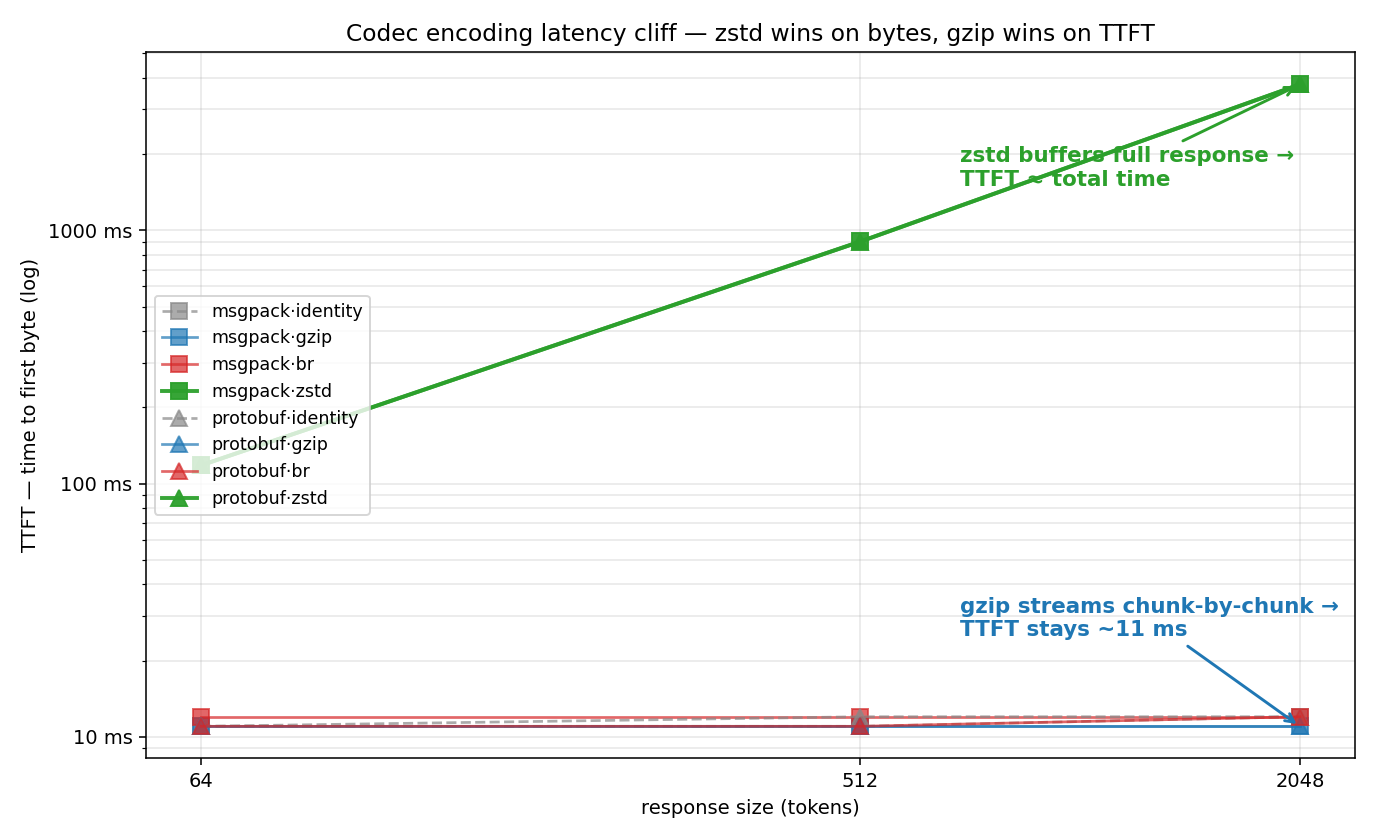
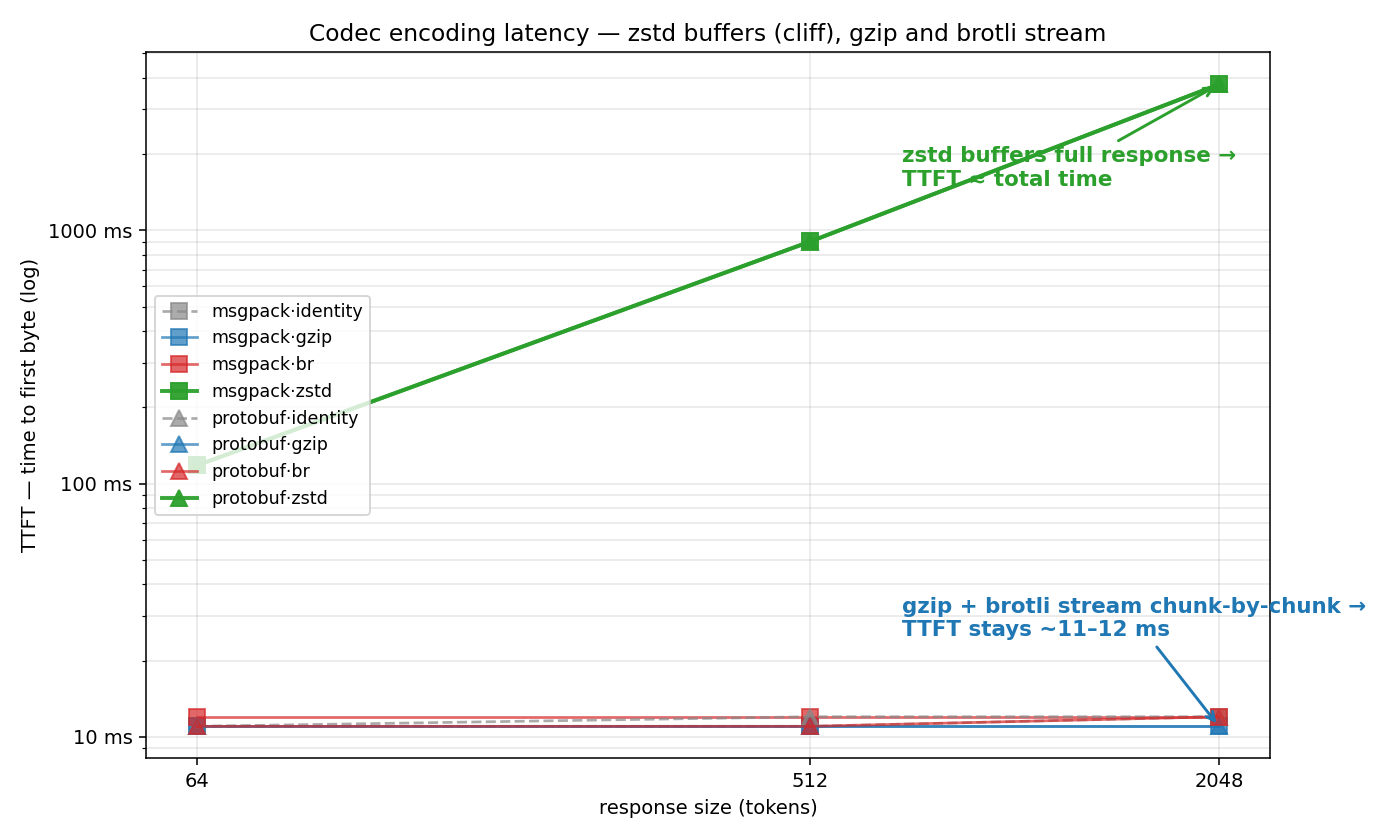
docs: add brotli to TTFT analysis (br streams, only zstd buffers)
Earlier TTFT analysis only showed gzip and zstd. Brotli was excluded
which made it look like the cliff was 'gzip vs everything else' --
that's wrong. The measured data has brotli at 11-12 ms TTFT across
all sizes, identical to gzip. The cliff is zstd-vs-everything-else.

Fixes:
- RESULTS.md sec 1d table now has 4 br rows (msgpack/protobuf/json-sse)
  with explicit 'streams? Y/N' column. Surrounding prose softened to
  acknowledge br as a viable streaming choice (just not as good as
  gzip on bytes for Codec frames).
- New trade-off table: gzip 222x/11ms, br ~17x/12ms, zstd 228x/3768ms
- TTFT chart caption updated: 'zstd buffers (cliff), gzip and brotli
  stream' -- tells the right story
- README transport-compression section gets the same trade-off table
- wire-compress README updated: interactive mode picks streaming
  encodings (gzip > br > zstd-only-if-alone), not just gzip
- Same patch applied to PR bodies for sglang #24483 + #24557, vLLM
  #41765, llama.cpp #22757, Codec #13.

diff --git a/packages/bench/scripts/plot_ttft.py b/packages/bench/scripts/plot_ttft.py
@@ -81,7 +81,7 @@ def plot_ttft(out_dir: Path) -> None:
         arrowprops=dict(arrowstyle="->", color="#2ca02c", lw=1.5),
     )
     ax.annotate(
-        "gzip streams chunk-by-chunk →\nTTFT stays ~11 ms",
+        "gzip + brotli stream chunk-by-chunk →\nTTFT stays ~11–12 ms",
         xy=(2048, 11), xytext=(700, 25),
         fontsize=11, fontweight="bold", color="#1f77b4",
         arrowprops=dict(arrowstyle="->", color="#1f77b4", lw=1.5),
@@ -94,7 +94,7 @@ def plot_ttft(out_dir: Path) -> None:
     ax.set_xlabel("response size (tokens)")
     ax.set_ylabel("TTFT — time to first byte (log)")
     ax.set_title(
-        "Codec encoding latency cliff — zstd wins on bytes, gzip wins on TTFT"
+        "Codec encoding latency — zstd buffers (cliff), gzip and brotli stream"
     )
     ax.grid(True, which="both", alpha=0.3)
     ax.legend(loc="center left", fontsize=9, ncol=1)

diff --git a/packages/bench/RESULTS.md b/packages/bench/RESULTS.md
@@ -255,39 +255,60 @@ token (TTFT, what humans feel), total wall-clock time, and CPU time
 spent in serialization on both endpoints. Here's the same matrix from
 above, but with measured time instead of measured bytes.
 
-### The TTFT cliff — zstd buffers, gzip streams
+### The TTFT cliff — zstd buffers, gzip and brotli stream
 
 The single most important time finding: **zstd as currently shipped by
 sglang's `codec_compression.py` buffers the entire response before
-sending the first byte.** Same lab box, same prompt, same model —
-TTFT measured as time from request POST to first received byte:
+sending the first byte.** gzip and brotli, by contrast, both flush
+chunk-by-chunk and preserve TTFT regardless of size. Same lab box,
+same prompt, same model — TTFT measured as time from request POST to
+first received byte:
 
 ![TTFT vs response size](docs/ttft-vs-size.png)
 
-| path · encoding | TTFT @ 64 tok | TTFT @ 512 tok | TTFT @ 2048 tok |
-|---|---:|---:|---:|
-| json-sse · identity | 46 ms | 15 ms | 15 ms |
-| msgpack · identity | 11 ms | 11 ms | 12 ms |
-| msgpack · gzip | `11 ms` | `11 ms` | `11 ms` |
-| msgpack · br | 12 ms | 12 ms | 12 ms |
-| **msgpack · zstd** | **118 ms** | **903 ms** | **3,764 ms** |
-| protobuf · identity | 11 ms | 12 ms | 12 ms |
-| protobuf · gzip | `11 ms` | `11 ms` | `11 ms` |
-| protobuf · br | 11 ms | 11 ms | 12 ms |
-| **protobuf · zstd** | **118 ms** | **902 ms** | **3,768 ms** |
+| path · encoding | TTFT @ 64 tok | TTFT @ 512 tok | TTFT @ 2048 tok | streams? |
+|---|---:|---:|---:|:---:|
+| json-sse · identity | 46 ms | 15 ms | 15 ms | ✓ |
+| json-sse · br | 12 ms | 13 ms | 12 ms | ✓ |
+| msgpack · identity | 11 ms | 11 ms | 12 ms | ✓ |
+| msgpack · gzip | `11 ms` | `11 ms` | `11 ms` | ✓ |
+| msgpack · br | `12 ms` | `12 ms` | `12 ms` | ✓ |
+| **msgpack · zstd** | **118 ms** | **903 ms** | **3,764 ms** | ✗ |
+| protobuf · identity | 11 ms | 12 ms | 12 ms | ✓ |
+| protobuf · gzip | `11 ms` | `11 ms` | `11 ms` | ✓ |
+| protobuf · br | `11 ms` | `11 ms` | `12 ms` | ✓ |
+| **protobuf · zstd** | **118 ms** | **902 ms** | **3,768 ms** | ✗ |
 
 **zstd's TTFT regresses 313× at 2K tokens** (11 ms → 3,768 ms) — first
-byte arrives only when the model finishes generating. gzip preserves
-TTFT at ~11 ms regardless of size.
+byte arrives only when the model finishes generating. **gzip and
+brotli both preserve TTFT** at ~11 ms regardless of size; only zstd
+buffers.
+
+That changes the encoding story: the streaming-vs-buffering split
+isn't gzip-versus-everything-else, it's zstd-versus-everything-else.
+Brotli is a perfectly viable streaming choice — it just doesn't
+compress Codec frames as well as gzip at small sizes (see §1c). At
+the same time it preserves TTFT exactly like gzip, which makes it the
+right pick for clients that have br support but not gzip (or where br
+is the negotiated default for some other reason).
 
 The wire savings are still real (zstd: 228× vs JSON-SSE; gzip: 222×
-vs JSON-SSE at 2K tokens). But for human-facing streams, the TTFT
-cliff makes zstd a non-starter as currently configured. **Use gzip for
-interactive responses**, even when zstd is supported.
+vs JSON-SSE; br: ~17× vs JSON-SSE — at 2K tokens). The trade-offs:
+
+| encoding | wire reduction at 2K | TTFT @ 2K | use when |
+|---|---:|---:|---|
+| gzip | 222× | 11 ms | universal default for streaming |
+| br | ~17× | 12 ms | gzip unavailable client-side (Safari/iOS edge cases) |
+| zstd | 228× | 3,768 ms | non-interactive workloads (agent-to-agent, batch) |
+
+For human-facing streams, the TTFT cliff makes zstd a non-starter as
+currently configured. **Use gzip for interactive responses**, fall
+back to br when gzip isn't supported, and only unlock zstd when the
+consumer is reading the whole response at once.
 
 The `wire-compress` picker enforces this. Its default `interactive: true`
-mode never picks zstd, even when both client and server support it,
-unless gzip is unavailable.
+mode never picks zstd; in that mode the order is gzip > br > zstd
+(zstd only chosen when it's the lone supported encoding).
 
 ### Total wall-clock — Codec adds <1% overhead
 

diff --git a/README.md b/README.md
@@ -250,9 +250,17 @@ A fine-grained sweep at 8 sizes (16 → 2,048 tokens, see `RESULTS.md` §1c) giv
 | **128 – 256**     | zstd if available, else gzip | within 10% of each other, both within reach of optimal                |
 | **≥ 256 tokens**  | **zstd**      | Huffman + dictionary keep amortising as the stream grows (562× vs JSON-SSE at 2K) |
 
-**Important caveat — TTFT cliff for interactive streams.** zstd as currently shipped buffers the entire response before sending the first byte. Measured TTFT on this server: gzip stays at ~11 ms regardless of size; zstd jumps to **3,768 ms at 2K tokens** — same as total time. For human-facing streams (chat, code completion) **use gzip**. zstd's full ratio is only safe for agent-to-agent and batch workloads where TTFT doesn't matter. The picker's `interactive: true` mode (the default) enforces this — see [`RESULTS.md` §1d](packages/bench/RESULTS.md) for the chart and full numbers.
+**Important caveat — TTFT cliff for interactive streams.** zstd as currently shipped buffers the entire response before sending the first byte. Measured TTFT on this server:
 
-A simpler one-rule policy that gets ~95% of the win: **gzip for interactive, zstd for agent-to-agent**. Both deliver 220-560× wire reduction at scale; only zstd has the TTFT cost.
+| encoding | TTFT @ 2K tok | wire reduction | streams? |
+|---|---:|---:|:---:|
+| gzip | 11 ms | 222× | ✓ |
+| br | 12 ms | ~17× | ✓ |
+| zstd | 3,768 ms | 228× | ✗ (buffers) |
+
+gzip and brotli both stream chunk-by-chunk and preserve TTFT regardless of size; only zstd buffers. For human-facing streams (chat, code completion) **use gzip**, fall back to br for clients without gzip support. zstd's full ratio is only safe for agent-to-agent and batch workloads where TTFT doesn't matter. The picker's `interactive: true` mode (the default) enforces this — see [`RESULTS.md` §1d](packages/bench/RESULTS.md) for the chart and full numbers.
+
+A simpler one-rule policy that gets ~95% of the win: **gzip for interactive, zstd for agent-to-agent, br for clients without either**. All three deliver real wire reduction; only zstd has the TTFT cost.
 
 **Brotli is a fallback tier, not a competitor.** On streaming small-frame workloads brotli's per-block overhead doesn't amortise, so when gzip *or* zstd is available the picker chooses one of those instead. But brotli has wider client coverage than zstd — Safari, iOS, older Firefox all ship br but not zstd — so it remains a critical fallback when neither modern encoder is supported. Identity is the universal floor; the picker only chooses it when nothing else negotiates.
 

diff --git a/packages/wire-compress/README.md b/packages/wire-compress/README.md
@@ -55,7 +55,9 @@ There are two regimes — interactive (humans read as it streams) and agent-mode
 
 ### Interactive (default)
 
-Always picks gzip when available. Reason: measured TTFT on Codec streams jumps from ~11 ms (gzip) to ~3,800 ms (zstd) at 2K tokens, because zstd compressors typically buffer the full stream to finalise their dictionary. For chat, code completion, anything a human reads as it streams, **gzip is the only safe choice** — and it still gets you ~225× wire reduction vs uncompressed JSON-SSE.
+Picks streaming encodings only — gzip first, brotli as fallback. Reason: measured TTFT on Codec streams jumps from ~11 ms (gzip or br) to ~3,800 ms (zstd) at 2K tokens, because zstd compressors typically buffer the full stream to finalise their dictionary. gzip and brotli both flush chunk-by-chunk and preserve TTFT.
+
+For chat, code completion, anything a human reads as it streams, **gzip and brotli are both safe choices**; gzip is preferred because it gets ~225× wire reduction (vs ~17× for br on Codec frames at 2K tokens). zstd is never picked in interactive mode unless it's the only encoding the client supports, in which case the picker accepts the regression and surfaces it in `reason`.
 
 ### Agent-mode (`interactive: false`)
 
